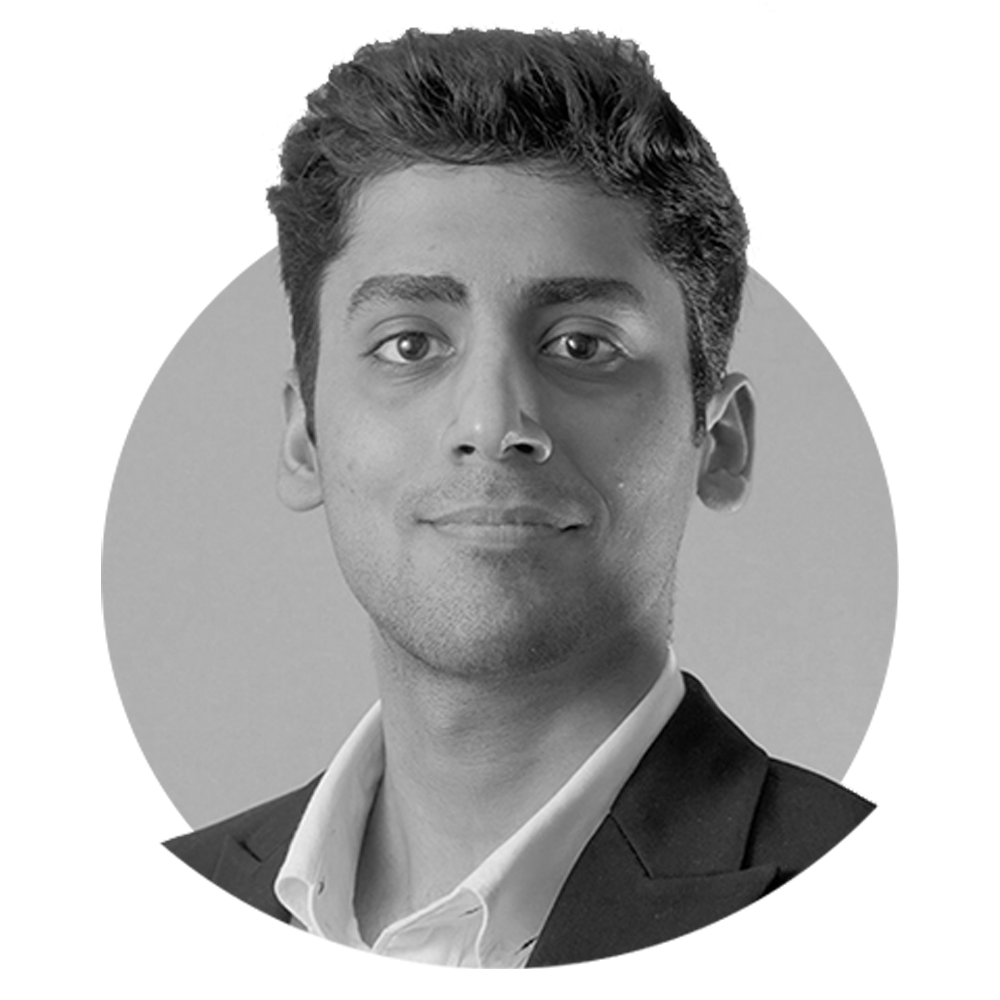
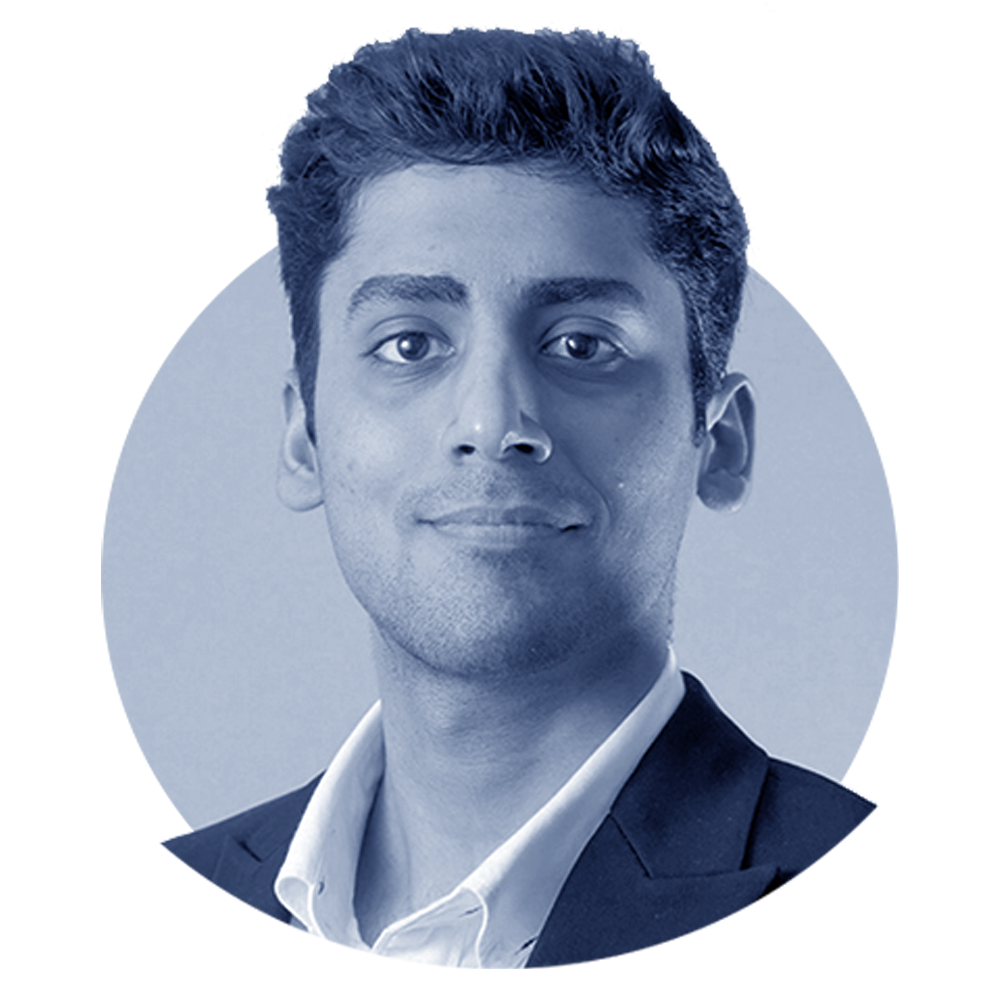
Color changes

diff --git a/src/App.js b/src/App.js
@@ -1,12 +1,22 @@
 import { useState } from 'react';
 import displayPicture from './dp.png';
 
+function replaceTextWithBoldTags(inputString) {
+  // Regular expression to match text between asterisks
+  let regex = /\*(.*?)\*/g;
+
+  // Replace matching text with <b> tags
+  let result = inputString.replace(regex, '<b>$1</b>');
+
+  return result;
+}
+
 const designProjects = [
   {
     title: 'Fixed Wing UAV',
     image: 'images/fixedwing.png',
     mobile_image: 'images/fixedwingmobile.png',
-    summary: 'I conducted Multi-Disciplinary Optimization, with an emphasis on electric propulsion, by implementing governing equations in MATLAB to optimize airfoil parameters, wing size, sweep, tail size, and position for balanced UAV cruise and takeoff performance.',
+    summary: 'I conducted *Multi-Disciplinary Optimization*, with an emphasis on electric propulsion, by implementing governing equations in *MATLAB* to optimize airfoil parameters, wing size, sweep, tail size, and position for balanced UAV cruise and takeoff performance.',
     portfolio: {start: 4, end: 14}
   },  
   {
@@ -79,14 +89,14 @@ const projectTypes = [
 function App() {
   const [openProject, setOpenProject] = useState(null);
   return (
-    <div className={'relative h-full' + (openProject ? ' overflow-hidden' : ' overflow-y-auto')}>
+    <div className={'relative h-full bg-gradient-to-tl from-neutral-100 to-white text-blue-950' + (openProject ? ' overflow-hidden' : ' overflow-y-auto')}>
       {
         openProject && 
         <div className="fixed top-0 bottom-0 right-0 left-0 bg-white z-50 h-full overflow-y-auto">
           <div className='flex flex-col gap-4 max-w-screen-lg m-auto'>
             <div className='flex items-center justify-between sticky bg-white w-full top-0 p-6'>
               <h4 className='text-xl font-bold'>{openProject.title}</h4>
-              <button onClick={() => setOpenProject(null)} className='flex gap-2 bg-stone-800 text-white rounded-2xl self-start p-2 pr-4 pl-4 mt-2 hover:bg-white hover:text-black transition-all duration-300 border-2 border-black'>Close</button>
+              <button onClick={() => setOpenProject(null)} className='flex gap-2 bg-blue-950 text-white rounded-2xl self-start p-2 pr-4 pl-4 mt-2 hover:bg-white hover:text-blue-950 transition-all duration-300 border-2 border-blue-950'>Close</button>
             </div>
             <p className='text-lg p-6'>{openProject.summary}</p>
             {
@@ -119,8 +129,8 @@ function App() {
               <h1 className='text-3xl font-bold md:text-6xl'>Shourya Sahdev</h1>
               <h2 className='text-xl md:text-4xl'>Mechanical Engineer</h2>
             </span>
-            <p className='mt-2 text-xl text-base text-center  sm:text-left'>I am a <span className='text-orange-500 font-bold'>Master's student at UIUC</span>, with a strong background in design, vehicle dynamics, robotics, and UAVs. I am passionate about innovation, problem-solving, and creating impactful solutions.</p>
-            <a href="/resume.pdf" target="_blank" className='bg-stone-800 text-white py-3 px-6 pr-4 self-center sm:self-start rounded-xl mt-4 flex gap-1 hover:bg-white hover:text-black transition-all duration-300 border-2 border-black'>
+            <p className='mt-2 text-xl text-center  sm:text-left'>I am a <span className='text-orange-500 font-bold'>Master's student at UIUC</span>, with a strong background in design, vehicle dynamics, robotics, and UAVs. I am passionate about innovation, problem-solving, and creating impactful solutions.</p>
+            <a href="/resume.pdf" target="_blank" className='bg-blue-950 text-white py-3 px-6 pr-4 self-center sm:self-start rounded-xl mt-4 flex gap-1 hover:bg-white hover:text-blue-950 transition-all duration-300 border-2 border-blue-950'>
               View CV
               <svg xmlns="http://www.w3.org/2000/svg" fill="none" viewBox="0 0 24 24" stroke-width="1.5" stroke="currentColor" class="size-6">
                 <path stroke-linecap="round" stroke-linejoin="round" d="M19.5 14.25v-2.625a3.375 3.375 0 0 0-3.375-3.375h-1.5A1.125 1.125 0 0 1 13.5 7.125v-1.5a3.375 3.375 0 0 0-3.375-3.375H8.25m0 12.75h7.5m-7.5 3H12M10.5 2.25H5.625c-.621 0-1.125.504-1.125 1.125v17.25c0 .621.504 1.125 1.125 1.125h12.75c.621 0 1.125-.504 1.125-1.125V11.25a9 9 0 0 0-9-9Z" />
@@ -144,11 +154,11 @@ function App() {
                 pt.projects.map(
                   project => 
                   (
-                    <div key={project.title} className='overflow-hidden relative max-w-full my-20 flex flex-col-reverse md:flex-row flex-nowrap items-center gap-4 bg-gradient-to-br from-gray-50 to-neutral-100 rounded-3xl'>
+                    <div key={project.title} className='overflow-hidden relative max-w-full my-20 flex flex-col-reverse md:flex-row flex-nowrap items-center gap-4 bg-gradient-to-br from-sky-50 to-neutral-100 rounded-3xl hover:from-sky-100 hover:to-sky-50 transition-all group'>
                       <span className='md:self-start p-6 z-10 md:pl-10 md:py-10 md:min-w-96 md:max-w-96 flex flex-col gap-2 relative'>
                         <h4 className='text-2xl font-bold'>{project.title}</h4>
-                        <p className='text-lg text-black/60'>{project.summary}</p>
-                        <button onClick={() => setOpenProject(project)} className='flex gap-2 bg-stone-800 text-white rounded-xl self-start p-2 pr-2 pl-4 mt-2 hover:bg-neutral-100 hover:text-black transition-all duration-300 border-2 border-black'>
+                        <p className='text-lg text-blue-950/60 transition-all group-hover:text-blue-950' dangerouslySetInnerHTML={{ __html: replaceTextWithBoldTags(project.summary) }}></p>
+                        <button onClick={() => setOpenProject(project)} className='flex gap-2 bg-blue-950 text-white rounded-xl self-start p-2 pr-2 pl-4 mt-2 hover:bg-transparent hover:text-blue-950 transition-all duration-300 border-2 border-blue-950'>
                           Explore
                           <svg  xmlns="http://www.w3.org/2000/svg"  width="24"  height="24"  viewBox="0 0 24 24"  fill="none"  stroke="currentColor"  stroke-width="2"  stroke-linecap="round"  stroke-linejoin="round"  class="icon icon-tabler icons-tabler-outline icon-tabler-arrow-up-right"><path stroke="none" d="M0 0h24v24H0z" fill="none"/><path d="M17 7l-10 10" /><path d="M8 7l9 0l0 9" /></svg>
                         </button>
@@ -176,7 +186,7 @@ function App() {
             <p className='text-2xl'>
               I am currently seeking <span className='text-orange-500 font-bold'>Mechanical Design Engineering</span> <span className='underline'>intern & full-time positions</span> for the fall.
             </p>
-            <p className='text-2xl text-black/50'>
+            <p className='text-2xl text-blue-950/60'>
               If you are looking for a passionate and dedicated engineer eager to contribute to cutting-edge projects, please feel free to reach out. I look forward to discussing potential opportunities and collaborations.
             </p>
             </div>

diff --git a/src/index.css b/src/index.css
@@ -20,11 +20,14 @@ body,html,#root {
   height: 100%;
   overflow: hidden;
   font-family: "Hanken Grotesk", sans-serif;
-  background-color: #fff;
-  background-image: radial-gradient(circle at top right, rgba(245, 245, 255, 0.13),       transparent),
-    radial-gradient(circle at 20% 80%, rgba(255, 255, 255, 0.13), transparent)
 }
 
 h1,h2,h3,h5,h6 {
   font-family: "Poppins", sans-serif;
+}
+
+@layer base {
+  b {
+    @apply text-orange-500;
+  }
 }
